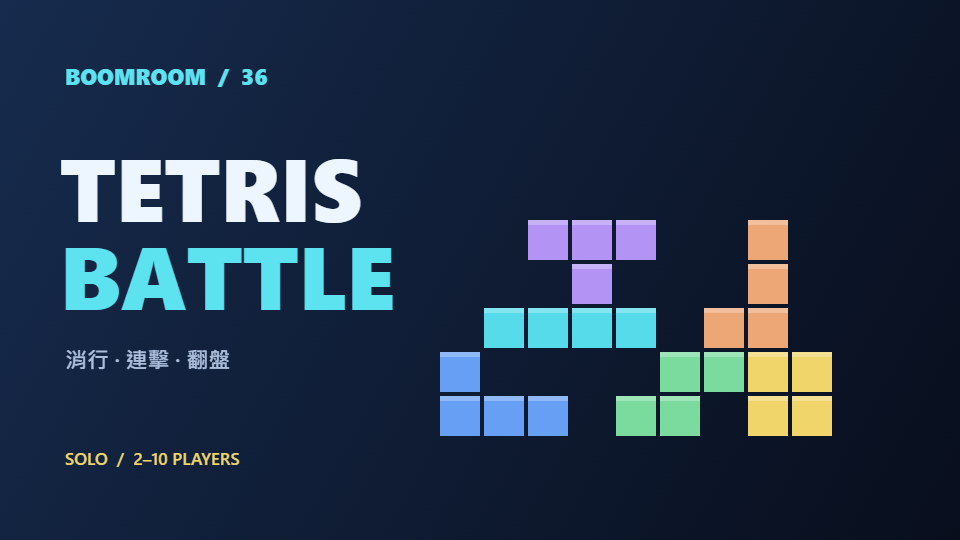
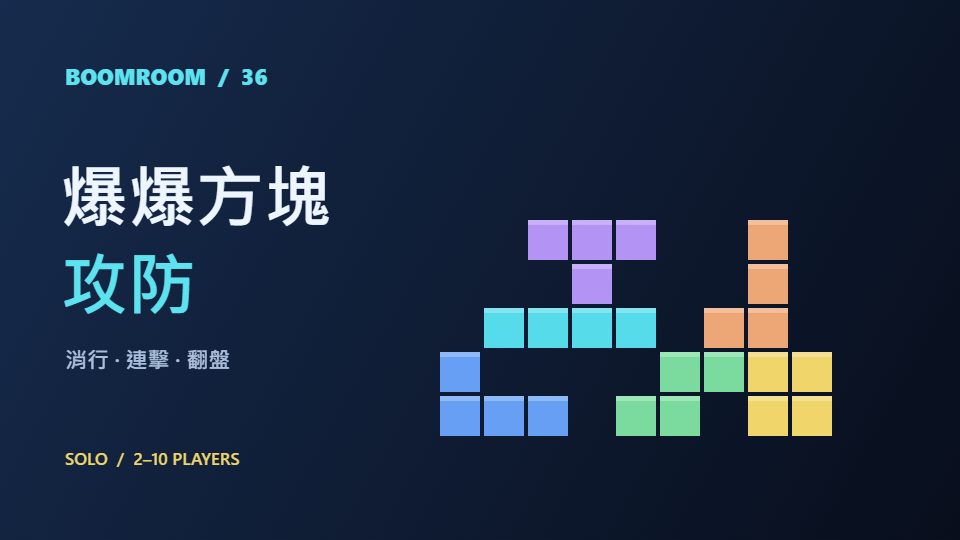
Update boomroom-games 2026-10-12 22:02:07

Changed region(s): [[0.0625, 0.4444, 0.4062, 0.5926], [0.0625, 0.2963, 0.375, 0.4148]]

diff --git a/36/game.js b/36/game.js
@@ -6,10 +6,11 @@
   const embedded = window.parent !== window || new URL(location.href).searchParams.get('boomroomHost') === '1';
   const colors = ['','#55dbea','#f0d56a','#b394f5','#7bdb9e','#ee718a','#669ff4','#eda776','#7d8b9e'];
   const inputs = new Map(), cleanups = [];
+  const ROOM_RETURN_DELAY_MS = 10_000;
   let engine = null, room = null, session = null, mode = 'marathon', paused = false, helpPaused = false;
   let lastFrame = performance.now(), lastPublish = 0, lastSave = 0, builtRivals = '', target = null;
   let activeRound = 0, resultRound = -1, completionSent = false, exiting = false, disposed = false;
-  let toastTimer = 0, feedbackTimer = 0, clearFlash = null, bootEpoch = 0, saved = null;
+  let toastTimer = 0, feedbackTimer = 0, resultReturnTimer = 0, resultReturnDeadline = 0, clearFlash = null, bootEpoch = 0, saved = null;
   let selfId = null;
   let countPlayed = -1;
   let soundBus = null, musicBus = null;
@@ -28,6 +29,20 @@
   function toast(message) {
     $('toast').textContent=message; $('toast').classList.add('show'); clearTimeout(toastTimer);
     toastTimer=setTimeout(()=>$('toast').classList.remove('show'),2600);
+  }
+  function stopResultReturnCountdown() {
+    clearTimeout(resultReturnTimer);resultReturnTimer=0;resultReturnDeadline=0;
+  }
+  function startResultReturnCountdown() {
+    stopResultReturnCountdown();resultReturnDeadline=Date.now()+ROOM_RETURN_DELAY_MS;
+    const update=()=>{
+      if(disposed||exiting||$('result').hidden||room?.phase!=='results'){stopResultReturnCountdown();return;}
+      const seconds=Math.max(0,Math.ceil((resultReturnDeadline-Date.now())/1000));
+      $('returnCountdown').textContent=`${seconds} 秒後自動返回房間`;
+      if(seconds===0){resultReturnTimer=0;leave();return;}
+      resultReturnTimer=setTimeout(update,250);
+    };
+    update();
   }
   function vibrate(style='light') {
     if (!preferences.haptic) return;
@@ -123,7 +138,7 @@
   function showBoardOverlay(title,note,resume=false) {
     show($('boardOverlay'),!!title);$('overlayTitle').textContent=title;$('overlayNote').textContent=note;
     show($('resumeBtn'),resume);
-    show($('reconnectBtn'),title==='同步中');
+    show($('reconnectBtn'),title.includes('同步中'));
   }
   function canPlay() {
     return !!engine && engine.status==='playing' && !paused && !exiting && !disposed &&
@@ -134,13 +149,16 @@
   function clearInputs() { const soft=[...inputs.values()].some(p=>p.kind==='soft');inputs.clear();if(soft)room?.input?.('softOff');for(const b of document.querySelectorAll('[data-action]'))b.classList.remove('pressed'); }
   function action(kind) {
     if(!canPlay())return;
-    room?.input?.(kind,engine.pieces);
+    const pieces=engine.pieces;
     let success=false;
     if(kind==='left'||kind==='right'){success=engine.move(kind==='left'?-1:1);if(success)sound('move');}
     else if(kind==='cw'||kind==='ccw')success=engine.rotate(kind==='cw'?1:-1);
     else if(kind==='hold')success=engine.swapHold();
     else if(kind==='hard')success=engine.hardDrop();
     else if(kind==='soft')success=engine.drop(true);
+    // Do not spend a server sequence number on a move the local rules already
+    // rejected. A no-op used to poison every later authoritative input.
+    if(success)room?.input?.(kind,pieces);
     if(success)vibrate(kind==='hard'?'medium':'selection');
     processEvents();if(room && success && kind!=='soft' && kind!=='left' && kind!=='right')publish();
     render();
@@ -205,6 +223,7 @@
   }
   function soloResult() {
     if(!engine)return;
+    stopResultReturnCountdown();show($('returnCountdown'),false);show($('replayBtn'),true);$('resultExit').className='secondary';
     completeRound();$('resultEyebrow').textContent=engine.status==='complete'?'CHALLENGE COMPLETE':'ONE MORE TRY';
     $('resultTitle').textContent=engine.status==='complete'?'漂亮！挑戰完成。':'這局，離極限更近了。';
     $('resultIntro').textContent=engine.status==='complete'?(mode==='sprint'?'40 行衝刺完成，刷新你的節奏！':'150 行馬拉松完成！'):'方塊堆到頂部。留一條空隙，下一局再突破。';
@@ -231,22 +250,44 @@
     const settlement=room.settlement,award=settlement?.awards?.find(a=>a.id===room.self);
     $('bestResult').textContent=room.verified?(settlement?.status==='PAID'?`已入帳 +${decimal(award?.payout||0)} 銀幣 · 本局加碼 ${decimal(room.stake)}`:room.aiLevels?.length?'AI 練習 · 伺服器計算結果':'伺服器已驗證排名'):'AI 本機練習 · 不發放銀幣';
     $('resultNote').textContent=settlement?.status==='PAID'?`獎池 ${decimal(settlement.pot)} 銀幣 · 無抽成 · 同名次平分` :settlement?.status==='REFUNDED'?settlement.reason:'本局加碼 0 · 不發放銀幣';
-    $('replayBtn').textContent='設定下一局 →';$('replayBtn').disabled=false;$('resultExit').textContent=room.local?'返回選單':'返回房間';
-    show($('result'),true);show($('menu'),false);clearInputs();sound(win?'win':'over');vibrate('heavy');$('replayBtn').focus();persist();
+    const autoReturn=embedded&&!room.local;
+    show($('replayBtn'),!autoReturn);$('replayBtn').textContent=room.local?'再練一次 →':'再戰一次 →';$('replayBtn').disabled=false;
+    $('resultExit').className=autoReturn?'primary':'secondary';$('resultExit').textContent=autoReturn?'立即返回房間':room.local?'返回選單':'返回房間';
+    show($('returnCountdown'),autoReturn);show($('result'),true);show($('menu'),false);clearInputs();sound(win?'win':'over');vibrate('heavy');
+    if(autoReturn)startResultReturnCountdown();else{stopResultReturnCountdown();$('replayBtn').focus();}
+    persist();
   }
   function updateLobby() {
     if(!room)return;
     $('lobbyPlayers').replaceChildren();
     for(const p of room.players.values()){
       const row=document.createElement('div'),name=document.createElement('span'),state=document.createElement('b');
-      row.className='lobby-player'+(room.ready.has(p.id)||p.bot?' ready':'');name.textContent=p.name+(p.id===room.self?' · 你':'')+(p.id===room.host?' · 房主':'');state.textContent=p.bot?'AI 練習':!p.connected?'等待連線':room.ready.has(p.id)?'✓ 已確認':Object.hasOwn(room.proposals||{},p.id)?`提案 ${decimal(room.proposals[p.id])}`:'尚未確認';row.append(name,state);$('lobbyPlayers').append(row);
+      row.className='lobby-player'+(room.ready.has(p.id)||p.bot?' ready':'');name.textContent=p.name+(p.id===room.self?' · 你':'')+(p.id===room.host?' · 房主':'');state.textContent=p.bot?'AI 練習':!p.connected?'等待連線':room.ready.has(p.id)?'✓ 已確認':Object.hasOwn(room.proposals||{},p.id)?room.aiLevels?.length?'免費練習 · 已就緒':`提案 ${decimal(room.proposals[p.id])}`:'尚未確認';row.append(name,state);$('lobbyPlayers').append(row);
     }
     const available=[...room.players.values()].filter(p=>p.connected),allReady=room.allReady??(available.length>=2&&available.every(p=>room.ready.has(p.id)));
-    $('startBtn').textContent=room.isHost&&allReady?'開始攻防 →':room.ready.has(room.self)?'已確認，等待其他玩家':room.stake?`確認加碼 ${decimal(room.stake)} 銀幣 →`:'確認 0 加碼 →';
+    $('startBtn').textContent=room.isHost&&allReady?(room.aiLevels?.length?'開始 AI 攻防 →':'開始攻防 →'):room.ready.has(room.self)?'已確認，等待其他玩家':room.aiLevels?.length?'確認免費 AI 對戰 →':room.stake?`確認加碼 ${decimal(room.stake)} 銀幣 →`:'確認 0 加碼 →';
     $('startBtn').disabled=room.recovering||(room.ready.has(room.self)&&!(room.isHost&&allReady));
-    if(room.verified&&![...room.players.values()].filter(p=>!p.bot).every(p=>Object.hasOwn(room.proposals,p.id))){$('startBtn').disabled=true;$('startBtn').textContent='先由全員送出加碼提案（可選 0）';}
-    $('menuNote').textContent=room.recovering?'正在等待房主同步；可按重試同步':`${available.length} 位參賽者 · 全員確認後由房主開始`;
+    if(room.verified&&!room.aiLevels?.length&&![...room.players.values()].filter(p=>!p.bot).every(p=>Object.hasOwn(room.proposals,p.id))){$('startBtn').disabled=true;$('startBtn').textContent='先由全員送出加碼提案（可選 0）';}
+    $('menuNote').textContent=room.recovering?'正在向伺服器自動重試同步；也可手動重試':`${available.length} 位參賽者 · ${room.aiLevels?.length?'AI 練習免費，不開放加碼 · 真人確認後開始':'全員確認後由房主開始'}`;
+    renderProposalOptions();
     setupControls();
+  }
+  function renderProposalOptions(){
+    const list=$('proposalOptions');if(!list)return;list.replaceChildren();
+    if(!room?.verified||room.aiLevels?.length)return;
+    const candidates=new Map();
+    for(const [id,value] of Object.entries(room.proposals||{})){const amount=Number(value);if(!Number.isSafeInteger(amount)||amount<0)continue;if(!candidates.has(amount))candidates.set(amount,[]);candidates.get(amount).push(id);}
+    const values=[...candidates.keys()].sort((a,b)=>a-b);
+    if(!values.length){const empty=document.createElement('p');empty.className='proposal-empty';empty.textContent='尚無提案。送出後，每個有效金額都會列在這裡供全員選擇。';list.append(empty);return;}
+    const humans=[...room.players.values()].filter(p=>!p.bot).length;
+    for(const amount of values){
+      const card=document.createElement('div'),copy=document.createElement('div'),title=document.createElement('b'),details=document.createElement('small'),button=document.createElement('button');
+      card.className='proposal-option'+(amount===room.stake?' selected':'');title.textContent=`每人 ${decimal(amount)} 銀幣`;
+      const names=candidates.get(amount).map(id=>room.players.get(id)?.name||'玩家');details.textContent=`${names.join('、')} · ${names.length}/${humans} 票${amount===room.stake?' · 目前票選':''}`;
+      button.type='button';button.className='proposal-pick';button.textContent=Number(room.proposals?.[room.self])===amount?'你的提案':'採用此提案';button.disabled=room.recovering||Number(room.proposals?.[room.self])===amount;
+      button.addEventListener('click',()=>{if(!room||room.recovering)return;$('stakeAmount').value=String(amount);$('stakeRange').value=String(amount);room.vote(amount);});
+      copy.append(title,details);card.append(copy,button);list.append(card);
+    }
   }
   let settingsKey='';
   const aiSelection=()=>[...$('aiLevels').querySelectorAll('select')].map(el=>Number(el.value));
@@ -255,11 +296,11 @@
   }
   function setupControls(){
     $('aiHeading').textContent=room?.verified?'房間 AI · 返回房間調整':'AI 練習';
-    const supports=room?.verified||room?.local,offline=!room&&mode==='ai';show($('aiSettings'),!!supports||offline);show($('wagerSettings'),!!room?.verified);
+    const supports=room?.verified||room?.local,offline=!room&&mode==='ai';show($('aiSettings'),!!supports||offline);show($('wagerSettings'),!!room?.verified&&!room.aiLevels?.length);
     if(supports||offline){const max=room?10-[...room.players.values()].filter(p=>!p.bot).length:9,levels=room?.aiLevels||[5],key=(room?.local?'local':room?.verified?'server':'offline')+'|'+max+'|'+levels.join(',');
       if(key!==settingsKey){settingsKey=key;$('aiCount').replaceChildren();for(let n=offline?1:0;n<=max;n++){const option=document.createElement('option');option.value=n;option.textContent=n+' 位';$('aiCount').append(option);}$('aiCount').value=levels.length;aiRows(levels);}$('aiCount').disabled=!!room&&(room.verified||!room.isHost);
     }
-    if(room?.verified){const cap=room.aiLevels.length||room.players.size<2?0:room.limit,humans=[...room.players.values()].filter(p=>!p.bot).length;$('stakeAmount').max=cap;$('stakeRange').max=cap;const amount=Math.min(cap,Math.max(0,Number($('stakeAmount').value)||0));$('stakeAmount').value=amount;$('stakeRange').value=amount;$('voteBtn').disabled=room.recovering;$('voteBtn').textContent=room.aiLevels.length?'送出 0 加碼提案':'送出我的提案';$('stakeAmount').disabled=$('stakeRange').disabled=!!room.aiLevels.length;$('stakeLabel').textContent=`每人 ${decimal(room.stake)} · 獎池 ${decimal(room.stake*humans)}`;$('stakeLimit').textContent=`入場費 100 已另行收取 · 目前錢包 ${room.ownBalance==null?'讀取中':decimal(room.ownBalance)} 銀幣 · ${room.aiLevels.length?'房間 AI 練習，只能選 0 加碼':`全房可加碼 0–${decimal(cap)} 銀幣`}`;}
+    if(room?.verified&&!room.aiLevels?.length){const cap=room.players.size<2?0:room.limit,humans=[...room.players.values()].filter(p=>!p.bot).length;$('stakeAmount').max=cap;$('stakeRange').max=cap;const amount=Math.min(cap,Math.max(0,Number($('stakeAmount').value)||0));$('stakeAmount').value=amount;$('stakeRange').value=amount;$('voteBtn').disabled=room.recovering;$('voteBtn').textContent='送出提案';$('stakeAmount').disabled=$('stakeRange').disabled=false;$('stakeLabel').textContent=`每人 ${decimal(room.stake)} · 獎池 ${decimal(room.stake*humans)}`;$('stakeLimit').textContent=`入場費 100 已另行收取 · 目前錢包 ${room.ownBalance==null?'讀取中':decimal(room.ownBalance)} 銀幣 · 全房可加碼 0–${decimal(cap)} 銀幣`;}
     show($('soloBtn'),!!room?.verified&&[...room.players.values()].filter(p=>!p.bot).length===1);
   }
   function roomChanged() {
@@ -326,7 +367,7 @@
       document.querySelector('.hold-tile').classList.toggle('used',!engine.canHold);
       const previewKey=engine.hold+'|'+engine.queue.slice(0,5).join();if(previewKey!==viewCache){viewCache=previewKey;preview($('holdCanvas'),[engine.hold],true);preview($('nextCanvas'),engine.queue.slice(0,5));}
     }else{drawBoard($('board'),null);preview($('nextCanvas'),['T','I','S','O','L']);}
-    if(room?.recovering&&['countdown','playing'].includes(room.phase)){showBoardOverlay('同步中','等待房主回應。對局暫停操作，請重試同步。');$('liveStatus').textContent='等待同步';}
+    if(room?.recovering&&['countdown','playing'].includes(room.phase)){showBoardOverlay('伺服器同步中','正在自動取得最新棋盤，請稍候。');$('liveStatus').textContent='自動同步中';}
     else if(room?.phase==='countdown'){const n=Math.max(1,Math.ceil((room.startAt-clock())/1000));if(countPlayed!==n){countPlayed=n;sound('count');vibrate('light');}showBoardOverlay(String(n),'全員同一方塊序列 · 準備攻防');$('liveStatus').textContent='倒數開始';}
     else if(room?.phase==='playing'&&!room.players.get(room.self).alive){showBoardOverlay('觀戰中','點選右側對手，切換觀戰棋盤。');$('liveStatus').textContent='已淘汰 · 觀戰';}
     else if(session&&sdk.status!=='PLAYING'){showBoardOverlay('對局結束','請返回房間重新開始。');$('liveStatus').textContent='對局已結束';}
@@ -340,14 +381,15 @@
     paused=value;clearInputs();lastFrame=performance.now();$('pauseBtn').setAttribute('aria-label',paused?'繼續':'暫停');render();persist();
   }
   function returnMenu() {
-    engine=null;paused=false;clearInputs();show($('result'),false);show($('menu'),true);$('pauseBtn').disabled=true;
+    stopResultReturnCountdown();engine=null;paused=false;clearInputs();show($('result'),false);show($('menu'),true);$('pauseBtn').disabled=true;
     $('menuTitle').textContent='每一塊，都能翻盤。';$('menuIntro').textContent='堆疊你的節奏，消除你的極限。';$('startBtn').textContent='開始挑戰 →';$('startBtn').disabled=false;render();
   }
   function leave() {
+    stopResultReturnCountdown();
     if(embedded){
       if(!sdk?.isReady){toast('尚未連上房間，請用 APP 返回按鈕離開');return;}
       room?.forfeit();persist();exiting=true;clearInputs();
-      if(!sdk.leaveGame()){exiting=false;toast('返回失敗，請用 APP 返回按鈕重試');}
+      if(!sdk.leaveGame()){exiting=false;toast('返回失敗，請用 APP 返回按鈕重試');if(room?.phase==='results')$('returnCountdown').textContent='返回未確認，請按「立即返回房間」重試';}
       else toast('正在返回房間…');
     }else{persist();room?.dispose();room=null;builtRivals='';returnMenu();show($('modeOptions'),true);show($('lobbyPlayers'),false);show($('miniRules'),true);setupControls();}
   }
@@ -425,7 +467,7 @@
   on($('stakeRange'),'input',()=>{$('stakeAmount').value=$('stakeRange').value;});
   on($('stakeAmount'),'input',()=>{$('stakeRange').value=$('stakeAmount').value;});
   on($('voteBtn'),'click',()=>{const amount=Number($('stakeAmount').value);if(!Number.isSafeInteger(amount)||amount<0||amount>room.limit){toast('請輸入全員可負擔的整數金額');return;}room.vote(amount);});
-  on($('replayBtn'),'click',()=>{if(room){if(!room.verified&&!room.local)room.setReady();show($('result'),false);show($('menu'),true);$('menuTitle').textContent='下一局，再翻盤。';updateLobby();}else startSolo();});
+  on($('replayBtn'),'click',()=>{if(room){if(!room.verified&&!room.local)room.setReady();show($('result'),false);show($('menu'),true);$('menuTitle').textContent='再來一場，繼續練習。';updateLobby();}else startSolo();});
   on($('exitBtn'),'click',leave);on($('resultExit'),'click',leave);on($('syncBtn'),'click',()=>{if(room)room.sync();else if(embedded)initializeOnline();});
   on($('pauseBtn'),'click',()=>pause(!paused));on($('resumeBtn'),'click',()=>pause(false));
   on($('reconnectBtn'),'click',()=>room?.sync());
@@ -445,7 +487,7 @@
   on(window,'resize',()=>{viewCache=null;render();});
   on(window,'pagehide',event=>{
     persist();clearInputs();if(event.persisted){if(!room&&canPlay())pause(true);audio?.suspend().catch(()=>{});return;}
-    disposed=true;++bootEpoch;cancelAnimationFrame(raf);clearInterval(heartbeat);clearTimeout(toastTimer);clearTimeout(feedbackTimer);
+    disposed=true;++bootEpoch;cancelAnimationFrame(raf);clearInterval(heartbeat);clearTimeout(toastTimer);clearTimeout(feedbackTimer);stopResultReturnCountdown();
     room?.dispose();for(const off of cleanups)off();audio?.close().catch(()=>{});
   });
   on(window,'pageshow',event=>{if(event.persisted){lastFrame=performance.now();room?.sync();render();}});

diff --git a/36/index.html b/36/index.html
@@ -4,15 +4,15 @@
   <meta charset="utf-8">
   <meta name="viewport" content="width=device-width, initial-scale=1, viewport-fit=cover">
   <meta name="theme-color" content="#0b1020">
-  <title>Tetris Battle · BoomRoom</title>
+  <title>爆爆方塊攻防 · BoomRoom</title>
   <link rel="icon" href="icon.svg" type="image/svg+xml">
-  <link rel="stylesheet" href="style.css?v=1">
+  <link rel="stylesheet" href="style.css?v=2">
   <link rel="stylesheet" href="settings.css?v=1">
 </head>
 <body>
   <main class="app">
     <header class="topbar">
-      <a class="brand" href="#" aria-label="Tetris Battle"><span class="brand-icon" aria-hidden="true"><i></i><i></i><i></i><i></i></span><span>TETRIS <b>BATTLE</b><small>BOOMROOM · 36</small></span></a>
+      <a class="brand" href="#" aria-label="爆爆方塊攻防"><span class="brand-icon" aria-hidden="true"><i></i><i></i><i></i><i></i></span><span>爆爆方塊 <b>攻防</b><small>BOOMROOM · 36</small></span></a>
       <div class="session-tag" id="sessionTag">單人練習</div>
       <nav class="toolbar" aria-label="遊戲設定">
         <button id="soundBtn" class="tool" aria-label="音效" aria-pressed="true" title="音效">♪<span>音效</span></button>
@@ -67,7 +67,7 @@
         </div>
         <div class="lobby-players" id="lobbyPlayers" hidden></div>
         <section id="aiSettings" class="match-settings" hidden aria-label="AI 練習設定"><div class="setting-heading"><b id="aiHeading">AI 練習</b><label>數量 <select id="aiCount" aria-label="AI 數量"></select></label></div><div id="aiLevels" class="ai-levels"></div><p class="menu-note">每位 AI 可選 1–9 級。AI 局不加碼，真人加 AI 最多 10 位。</p></section>
-        <section id="wagerSettings" class="match-settings" hidden aria-label="加碼投票"><div class="setting-heading"><b>本局加碼</b><span id="stakeLabel">0 銀幣</span></div><label class="stake-input">你的提案 <input id="stakeAmount" type="number" min="0" step="1" value="0" inputmode="numeric" aria-label="加碼提案金額"> 銀幣</label><input id="stakeRange" type="range" min="0" max="0" step="1" value="0" aria-label="拖動加碼金額"><button id="voteBtn" class="secondary">送出我的提案</button><p id="stakeLimit" class="menu-note"></p><p id="stakeRules" class="menu-note">多數票決定，同票取低；全員確認才扣款；60 秒未開局需重新確認。2 人冠軍全拿，3 人以上 70%／20%／10%，同名次平分。</p></section>
+        <section id="wagerSettings" class="match-settings" hidden aria-label="加碼投票"><div class="setting-heading"><b>本局加碼</b><span id="stakeLabel">0 銀幣</span></div><label class="stake-input">你的提案 <input id="stakeAmount" type="number" min="0" step="1" value="0" inputmode="numeric" aria-label="加碼提案金額"> 銀幣</label><input id="stakeRange" type="range" min="0" max="0" step="1" value="0" aria-label="拖動加碼金額"><button id="voteBtn" class="secondary">送出提案</button><div id="proposalOptions" class="proposal-options" aria-label="目前可採用的提案"></div><p id="stakeLimit" class="menu-note"></p><p id="stakeRules" class="menu-note">票數最多的提案成為候選，同票取較低金額；每位真人都確認後才扣款。2 人冠軍全拿，3 人以上前 3 名 70%／20%／10%，同名次平分。AI 房為免費練習。</p></section>
         <div class="mini-rules" id="miniRules"><span>⇄ 保留關鍵方塊</span><span>⤓ 空白鍵立即落下</span><span>✦ 透明輪廓是落點</span></div>
         <button class="primary start-button" id="startBtn">開始挑戰 <span>→</span></button>
         <button class="secondary" id="syncBtn" hidden>重試同步</button>
@@ -77,7 +77,7 @@
     </section>
 
     <section class="modal-backdrop" id="result" role="dialog" aria-modal="true" aria-labelledby="resultTitle" hidden>
-      <div class="menu-card result-card"><p class="eyebrow" id="resultEyebrow">ROUND COMPLETE</p><div class="result-mark" id="resultMark">✦</div><h1 id="resultTitle">本局完成</h1><p id="resultIntro"></p><div id="resultStats" class="result-stats"></div><div id="rankings" class="rankings"></div><p id="bestResult" class="best-result"></p><button id="replayBtn" class="primary">再挑戰一次 →</button><button id="resultExit" class="secondary">返回選單</button><p id="resultNote" class="menu-note">本局挑戰成績不發放銀幣</p></div>
+      <div class="menu-card result-card"><p class="eyebrow" id="resultEyebrow">ROUND COMPLETE</p><div class="result-mark" id="resultMark">✦</div><h1 id="resultTitle">本局完成</h1><p id="resultIntro"></p><div id="resultStats" class="result-stats"></div><div id="rankings" class="rankings"></div><p id="bestResult" class="best-result"></p><button id="replayBtn" class="primary">再挑戰一次 →</button><button id="resultExit" class="secondary">返回選單</button><p id="returnCountdown" class="menu-note" role="status" aria-live="polite" hidden></p><p id="resultNote" class="menu-note">本局挑戰成績不發放銀幣</p></div>
     </section>
 
     <section class="modal-backdrop" id="help" role="dialog" aria-modal="true" aria-labelledby="helpTitle" hidden>
@@ -89,9 +89,9 @@
   <script src="../shared/boomroom-sdk.js?v=6" defer></script>
   <script src="engine.js?v=1" defer></script>
   <script src="ai.js?v=1" defer></script>
-  <script src="battle.js?v=1" defer></script>
+  <script src="battle.js?v=2" defer></script>
   <script src="room.js?v=1" defer></script>
-  <script src="authority-room.js?v=1" defer></script>
-  <script src="game.js?v=3" defer></script>
+  <script src="authority-room.js?v=2" defer></script>
+  <script src="game.js?v=5" defer></script>
 </body>
 </html>

diff --git a/36/authority-room.js b/36/authority-room.js
@@ -5,11 +5,16 @@
   class AuthorityRoom {
     constructor(sdk,callbacks={}){
       this.sdk=sdk;this.callbacks=callbacks;this.self=String(sdk.getUser().id);this.verified=true;this.local=false;
-      this.players=new Map();this.ready=new Set();this.received=new Set();this.pending=[];this.seq=0;this.version=-1;this.round=0;this.lastSeen=performance.now();this.lastPing=0;this.lastSend=0;this.offset=Date.now()-performance.now();
+      this.players=new Map();this.ready=new Set();this.received=new Set();this.pending=[];this.seq=0;this.version=-1;this.round=0;this.lastSeen=performance.now();this.lastPing=0;this.lastSend=0;this.lastPull=-Infinity;this.offset=Date.now()-performance.now();
       this.off=sdk.onGameEvent((name,payload,sender)=>{
         if(String(sender)!=='SYSTEM')return;
         if(name==='TETRIS_PRIVATE'&&String(payload?.userId)===this.self)this.accept(payload.session);
-        if(name==='TETRIS_ERROR')callbacks.notice?.(payload?.message||'操作未確認，請同步');
+        if(name==='TETRIS_ERROR'){
+          if(payload?.code==='TETRIS_INPUT_RESYNC'){
+            this.pending=[];this.seq=this.players.get(this.self)?.ack||0;this.callbacks.changed?.();
+            callbacks.notice?.('操作已與伺服器校準，請繼續');
+          }else callbacks.notice?.(payload?.message||'操作未確認，請同步');
+        }
       });
       this.endOff=sdk.onSessionEnd(()=>{this.phase='ended';callbacks.changed?.();});
       this.accept(sdk.getSession(),false);
@@ -48,8 +53,9 @@
     input(kind,pieces,target){if(this.phase!=='playing'||this.recovering)return;this.pending.push({kind,pieces,target,round:this.round,seq:++this.seq,localAt:this.now(),sentAt:0});this.pump();}
     selectTarget(id){if(id)this.input('target',null,id);}
     pump(){const time=performance.now();if(time-this.lastSend<12)return;const c=this.pending.find(p=>!p.sentAt||time-p.sentAt>=600);if(!c)return;const {localAt,sentAt,...packet}=c;if(this.send(packet)){c.sentAt=time;this.lastSend=time;}}
-    tick(){this.pump();const time=performance.now();if(time-this.lastSeen>5000&&!this.recovering){this.recovering=true;this.callbacks.changed?.();}if(time-this.lastPing>1500){this.lastPing=time;this.send({kind:'PING'});this.send({kind:'SYNC'});}}
-    sync(){this.control('SYNC');}
+    requestSnapshot(){const time=performance.now();if(time-this.lastPull<2000)return;this.lastPull=time;this.sdk.requestGameUi?.('SYNC');}
+    tick(){this.pump();const time=performance.now();if(time-this.lastSeen>5000){if(!this.recovering){this.recovering=true;this.callbacks.changed?.();}this.requestSnapshot();}if(time-this.lastPing>1500){this.lastPing=time;this.send({kind:'PING'});this.send({kind:'SYNC'});}}
+    sync(){this.control('SYNC');this.requestSnapshot();}
     publish(){} attack(){}
     forfeit(){this.send({kind:'EXIT'});}
     snapshot(){return null;}

diff --git a/36/battle.js b/36/battle.js
@@ -17,7 +17,9 @@
     configure(levels){
       if(!['lobby','results'].includes(this.phase)||!Array.isArray(levels)||levels.length+this.humans.length>10||levels.some(n=>!Number.isInteger(n)||n<1||n>9))throw Error('AI 設定無效');
       this.aiLevels=[...levels];this.members=this.humans.concat(levels.map((level,i)=>({id:'ai:'+i,name:`AI ${i+1} · Lv.${level}`,bot:true,level,alive:true,inRound:false,connected:true,engine:null,ack:0,target:null,soft:false,lastInput:0,lastHard:0,lastSeen:0,eliminatedAt:null,nextAI:0})));
-      if(levels.length){this.proposals={};this.stake=0;}this.invalidate();
+      // AI matches are free. Auto-record zero for every human so they only
+      // confirm the match instead of submitting a redundant wager proposal.
+      this.proposals=levels.length?Object.fromEntries(this.humans.map(m=>[m.id,0])):{};this.stake=0;this.invalidate();
     }
     vote(id,amount){
       if(!['lobby','results'].includes(this.phase)||!this.humans.some(m=>m.id===id)||!Number.isSafeInteger(amount)||amount<0||amount>this.limit||amount>0&&(this.aiLevels.length||this.humans.length<2))throw Error('提案金額超出可用餘額，或 AI／單人練習不能加碼');
@@ -50,13 +52,13 @@
       }
       if(this.phase!=='playing'||!m.alive||c.round!==this.round||!Number.isSafeInteger(c.seq)||c.seq<1||c.seq>1000000)return false;
       if(c.seq<=m.ack)return true;if(c.seq!==m.ack+1)return false;
-      m.ack=c.seq;
-      if(c.kind==='target'){if(this.members.some(p=>p.id===String(c.target)&&p.id!==id&&p.alive))m.target=String(c.target);return true;}
-      if(c.kind==='forfeit'){m.engine.finish('forfeit');this.drain(m,now);return true;}
-      if(c.kind==='softOn'||c.kind==='softOff'){m.soft=c.kind==='softOn';return true;}
+      if(c.kind==='target'){if(!this.members.some(p=>p.id===String(c.target)&&p.id!==id&&p.alive))return false;m.target=String(c.target);m.ack=c.seq;return true;}
+      if(c.kind==='forfeit'){m.engine.finish('forfeit');m.ack=c.seq;this.drain(m,now);return true;}
+      if(c.kind==='softOn'||c.kind==='softOff'){m.soft=c.kind==='softOn';m.ack=c.seq;return true;}
       if(!['left','right','cw','ccw','hold','hard','soft'].includes(c.kind)||c.pieces!==m.engine.pieces)return false;
       if(c.kind==='hard'&&now-m.lastHard<80)return false;
-      m.lastInput=now;if(c.kind==='hard')m.lastHard=now;const accepted=ai.apply(m.engine,c.kind);this.drain(m,now);return accepted;
+      const accepted=ai.apply(m.engine,c.kind);if(!accepted)return false;
+      m.ack=c.seq;m.lastInput=now;if(c.kind==='hard')m.lastHard=now;this.drain(m,now);return true;
     }
     advance(now,exclude=null){
       if(!['countdown','playing'].includes(this.phase))return;

diff --git a/36/style.css b/36/style.css
@@ -12,3 +12,4 @@
 .rivals-tile{max-height:max(120px,calc(var(--board-width)*2 - 340px));overflow:auto}.board-overlay.spectating{inset:auto 5px 5px;padding:10px;background:#0b152bd9}.board-overlay.spectating strong{font-size:16px}.board-overlay.spectating p{font-size:9px;margin:5px 0 0}
 @media(max-width:680px) and (min-height:571px){.rivals-tile{max-height:max(90px,calc(var(--board-width)*2 - 150px))}.rivals{max-height:none;overflow:visible}.rival.target canvas{display:block}}
 @media(max-height:570px) and (min-width:600px){.rivals-tile{max-height:calc(100dvh - 100px)}}
+.proposal-options{display:grid;gap:7px;margin-top:12px}.proposal-option{display:flex;align-items:center;justify-content:space-between;gap:9px;padding:9px 11px;border:1px solid var(--line);border-radius:9px;background:#0b1426}.proposal-option.selected{border-color:var(--cyan);background:#5ce3ef0d}.proposal-option b,.proposal-option small{display:block}.proposal-option b{font-size:12px}.proposal-option small,.proposal-empty{margin:4px 0 0;color:var(--muted);font-size:10px;line-height:1.5}.proposal-pick{flex:none;padding:7px 10px;border:1px solid #425675;border-radius:8px;background:#1c2a42;font-size:10px}.proposal-option.selected .proposal-pick{border-color:#5ce3ef55;color:var(--cyan)}

diff --git a/36/README.md b/36/README.md
@@ -1,6 +1,6 @@
-# 第 36 款 · Tetris Battle：爆爆方塊攻防
+# 第 36 款 · 爆爆方塊攻防
 
-支援加碼：固定入場費 100 銀幣與每局自願加碼分開。共用 SDK revision 5、APP 橋接與後端 TETRIS 引擎需一起更新；維持 TESTING。
+支援加碼：固定入場費 100 銀幣與每局自願加碼分開。共用 SDK revision 6、APP 橋接與後端 TETRIS 引擎需一起更新；維持 TESTING。
 
 ## 遊玩與操作
 
@@ -15,11 +15,12 @@ Engine 實作 SRS、七袋、NEXT 5、Hold、Ghost、500ms 鎖定延遲、最多
 
 1. 入場費 100 已由正式 Session 收取，按既有平台／創作者政策處理；不放入加碼獎池。再戰只重新確認每局加碼，不再收取 Session 入場費。
 2. 每位真人可拖動滑桿或輸入非負整數，不設固定投注檔位。上限依全員目前錢包及既有 INT 帳本容量計算；畫面分開顯示本人餘額、100 入場費、全房可加碼上限與預估獎池。即使選 0，也須所有真人投票。
-3. 票最多金額成為候選，同票選低額。所有真人各自確認同一金額與設定版本才可開局；改票、AI 設定、離場、失去座位／連線及 60 秒確認逾時會撤銷舊確認。AI 局只接受 0。
+3. 每個真人目前的提案都會顯示成可直接採用的選項，並標出提案者和票數。票數最多金額成為候選，同票選低額；所有真人各自確認同一金額與設定版本才可開局。改票、AI 設定、離場、失去座位／連線及 60 秒確認逾時會撤銷舊確認。AI 局自動記為 0 加碼，不需另外送提案或開啟加碼介面。
 4. 開局交易先按 user ID 鎖定所有錢包，再驗證餘額、參賽者、局次與確認版本；全部扣款、獎池、唯一帳本及倒數一起提交，任何失敗全部回滾。金額由伺服器決定。
 5. 加碼獎池無抽成：2 真人冠軍全拿；3 人以上前 3 名 70%／20%／10%。並列分享所占名次比例，例如 1、1、3 為 45%／45%／10%。整數餘數依名次和穩定玩家順序補足，總額守恆。
 6. 最後存活者勝。3 分鐘到時依存活、攻擊、分數、消行排序；淘汰者依存活時間、分數、消行排序。相同數值並列。伺服器按自己的排名原子派彩，UI 只憑 PAID 收據顯示入帳。
-7. 房主結束、伺服器逾 10 秒無法續算或不能安全派彩時整池退還加碼；固定入場費不退。錢包容量會保留尚可退還的加碼，防止其他收入導致退款無法完整入帳。
+7. 正式房間結算頁保留 10 秒檢視排名與派彩，倒數結束自動返回房間；也可立即返回。線上結算不再提供「設定下一局」。
+8. 房主結束、伺服器逾 10 秒無法續算或不能安全派彩時整池退還加碼；固定入場費不退。錢包容量會保留尚可退還的加碼，防止其他收入導致退款無法完整入帳。
 
 ## 伺服器／SDK 契約
 
